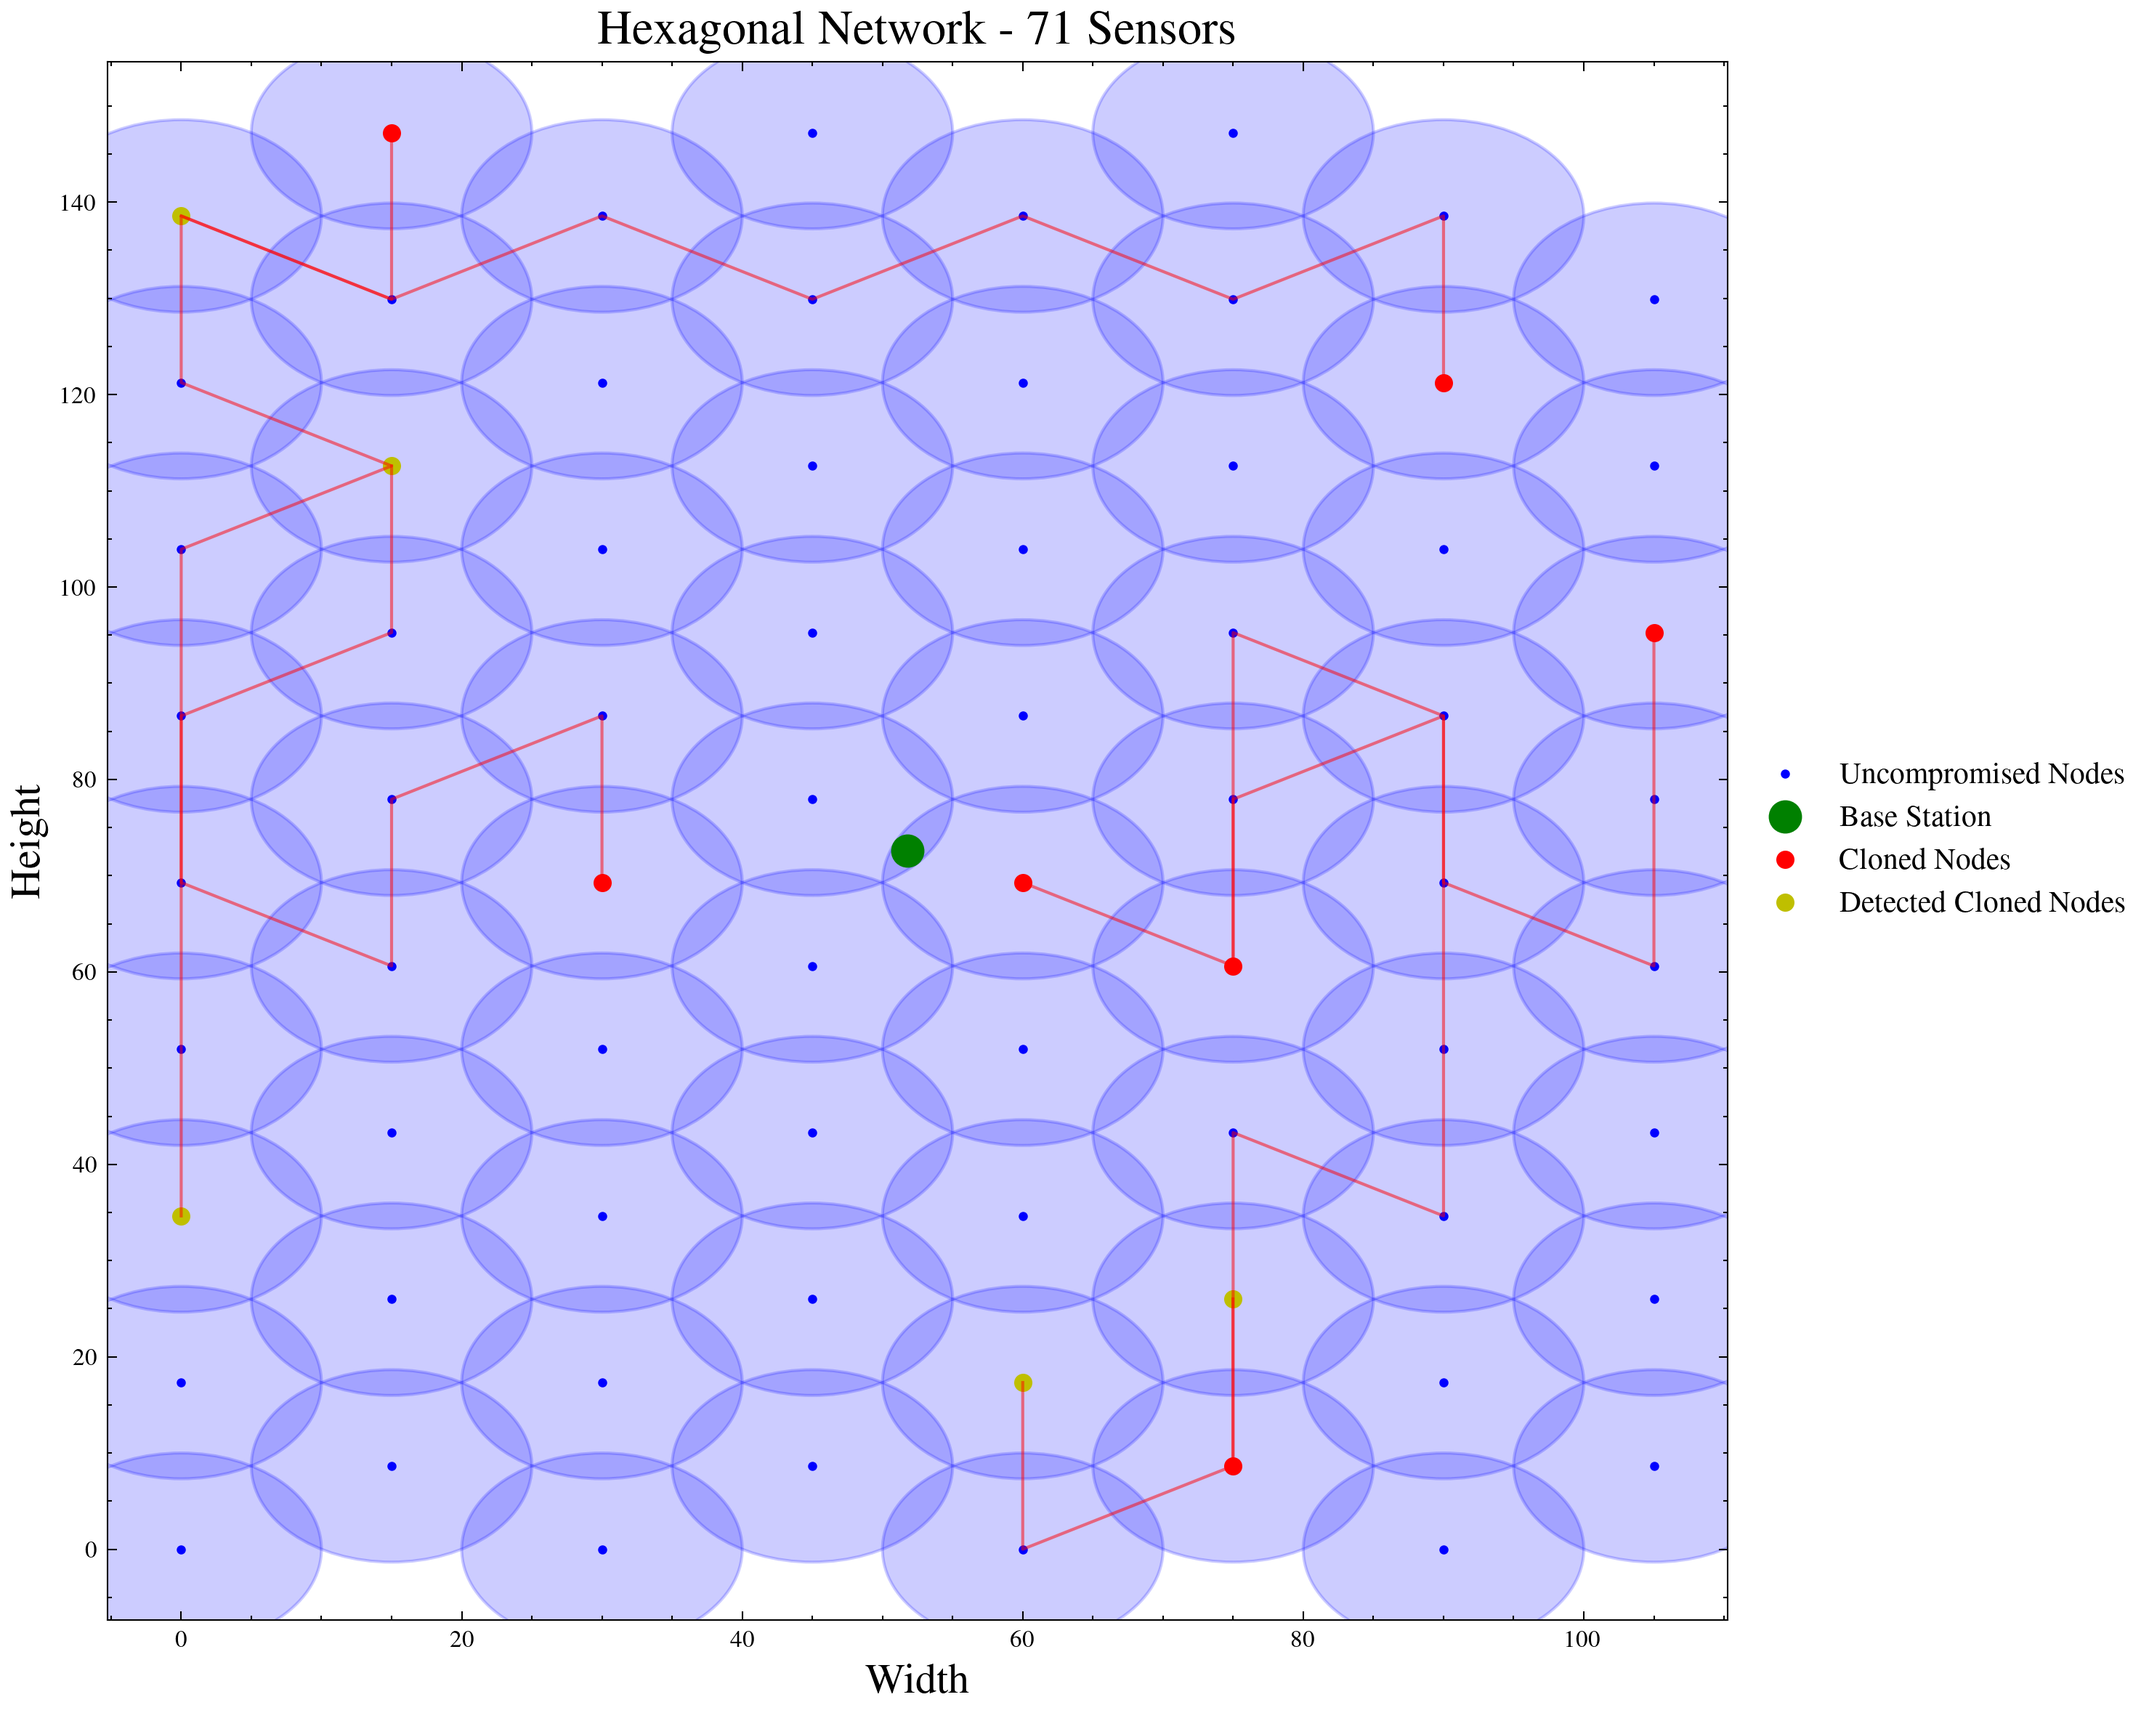
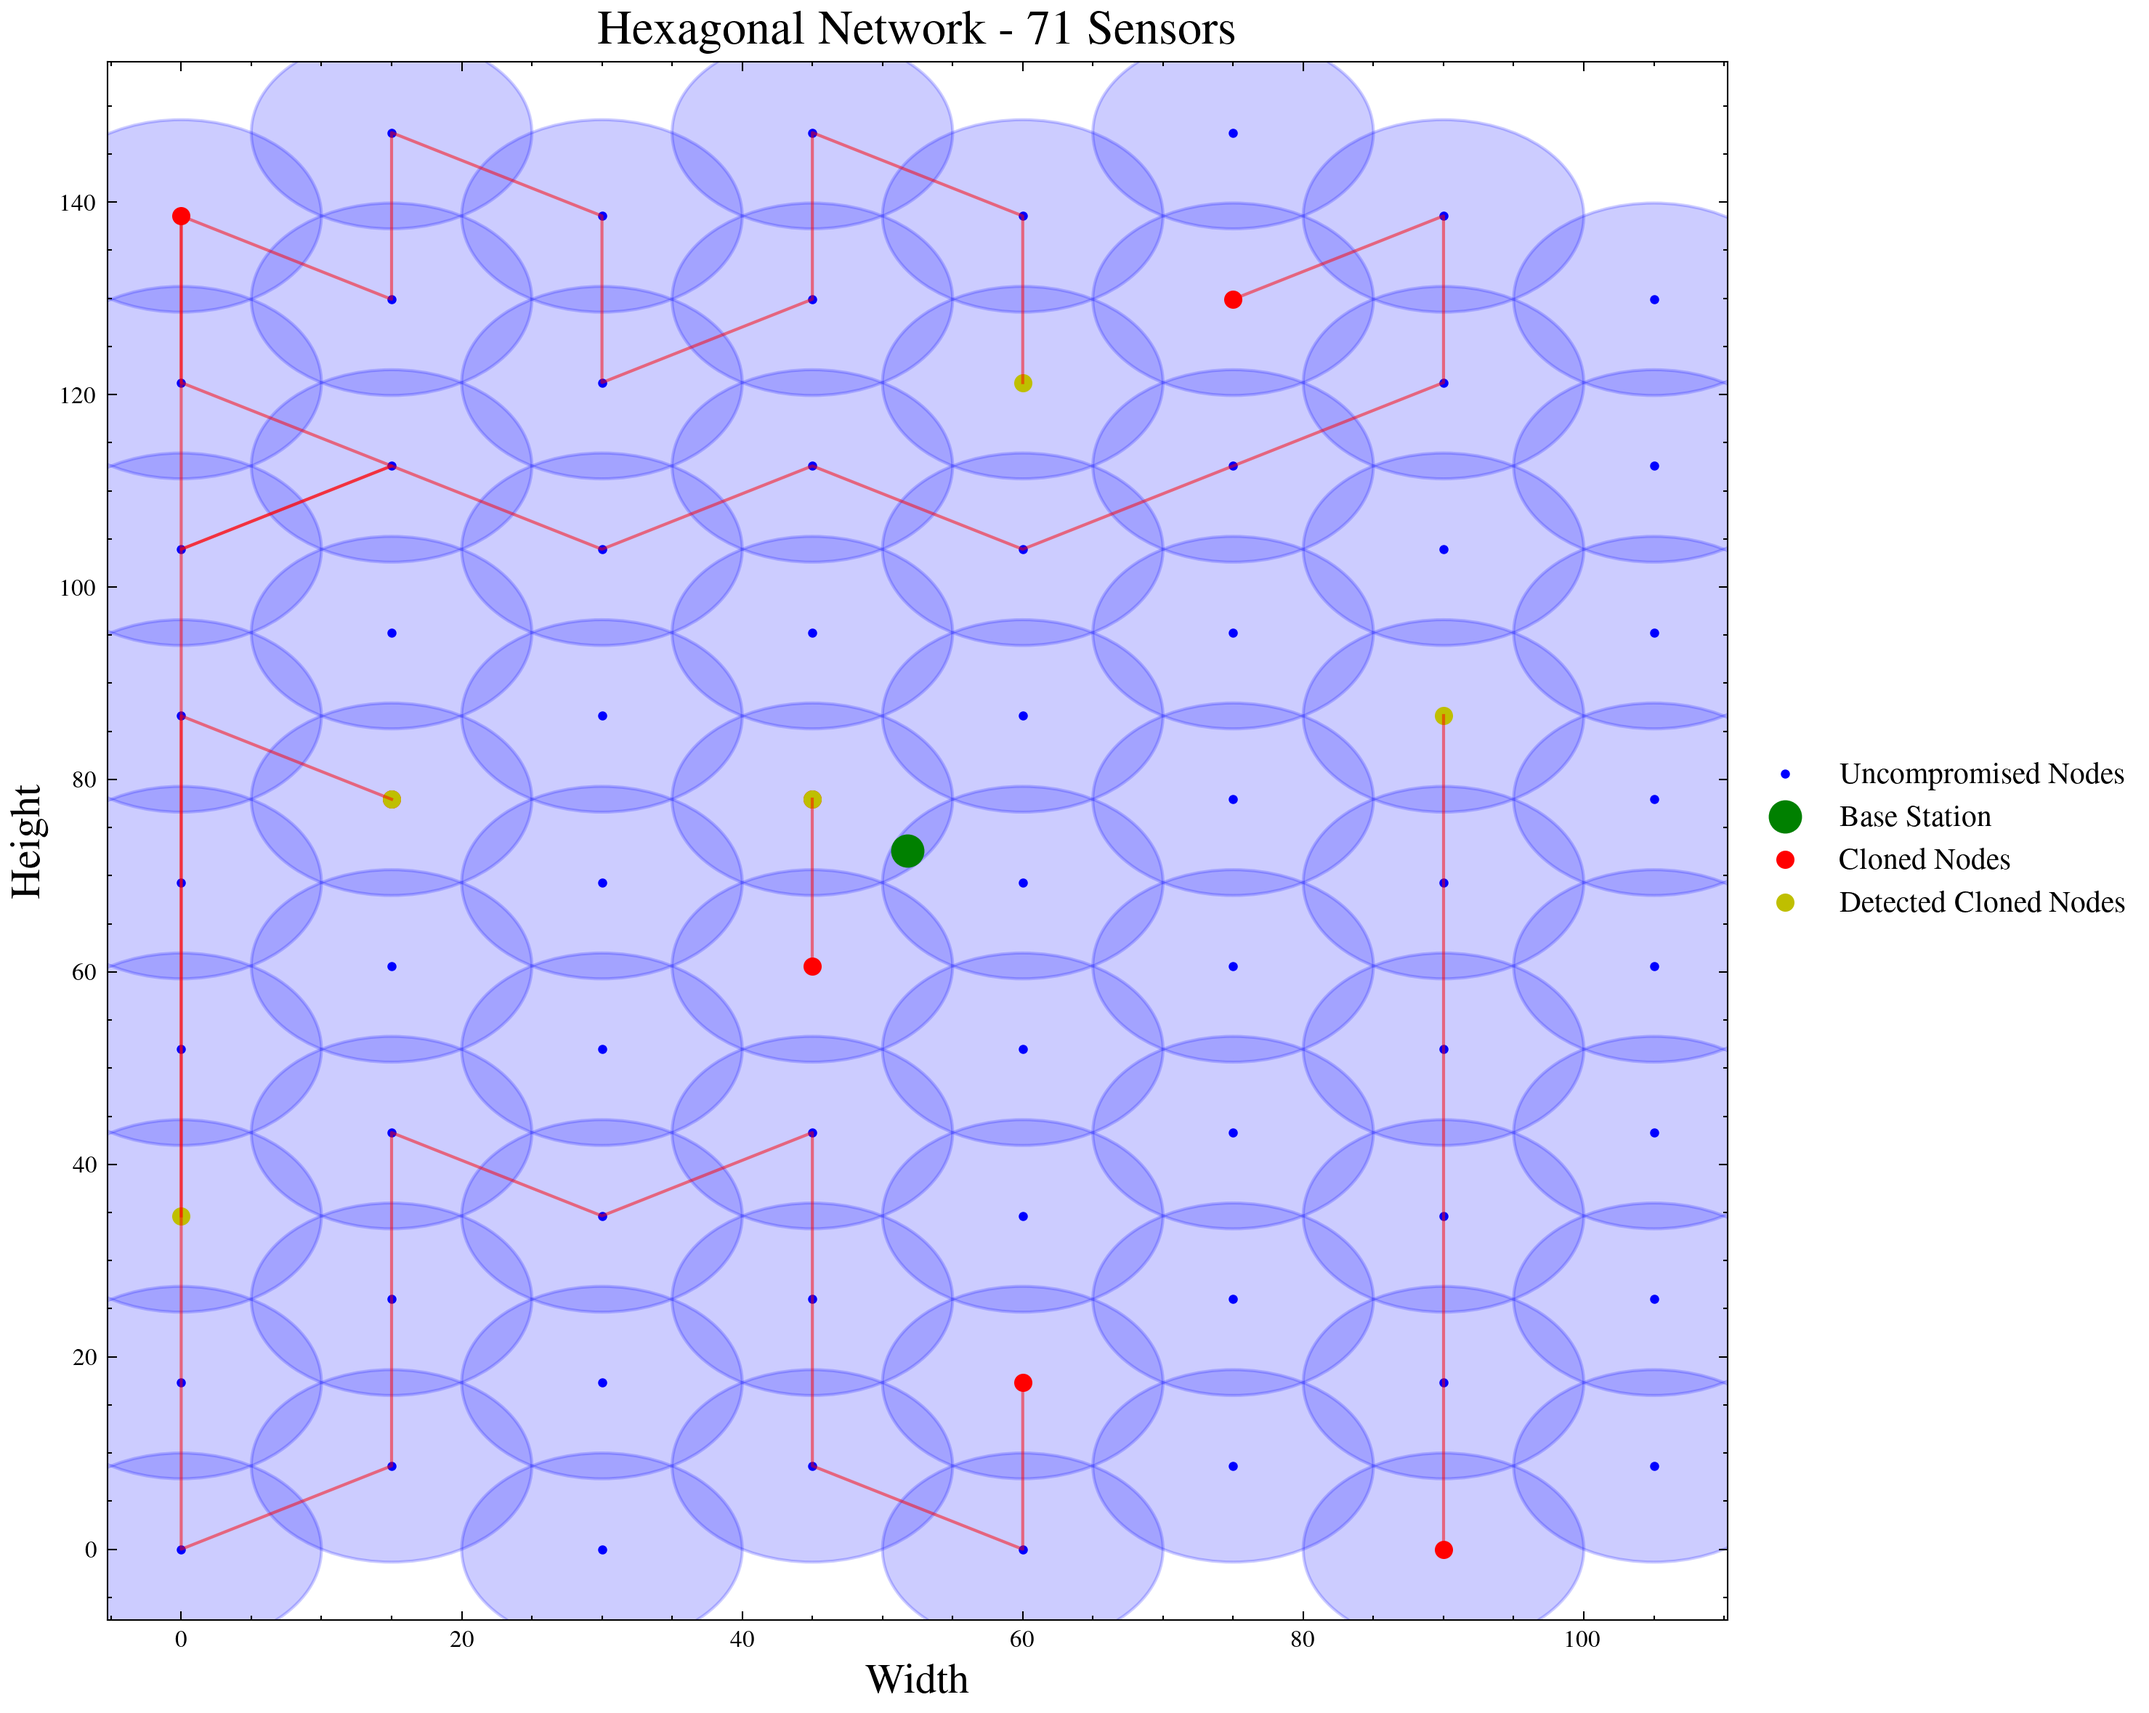
nice

diff --git a/SECURITY/mainfilesecurity.py b/SECURITY/mainfilesecurity.py
@@ -6,7 +6,7 @@ import pandas as pd
 from network_generation import generate_aperiodic_network, generate_hexagonal_network, generate_triangular_network, generate_square_network
 
 plt.style.use(['science', 'ieee', 'high-vis'])
-plt.rcParams.update({'figure.dpi': '600'})
+plt.rcParams.update({'figure.dpi': '300'})
 
 # Parameters
 SENSOR_RADIUS = 10
@@ -113,7 +113,7 @@ def get_unique_angles_distances(current_node, network):
 def detect_pattern(current_node, network):
     unique_angles, unique_distances = get_unique_angles_distances(current_node, network)
     
-    max_angles = 12
+    max_angles = 6
     max_distances = 2
     
     return len(unique_angles) <= max_angles and len(unique_distances) <= max_distances

diff --git a/spectretileinscribed2.0.py b/spectretileinscribed2.0.py
@@ -102,7 +102,7 @@ def plot_spectre_tiles_with_sensors(tiles, sensor_positions, sensor_radius):
     for sensor_pos in sensor_positions:
         circle = Circle(sensor_pos, sensor_radius, color='r', fill=False, linestyle='dotted')
         ax.add_patch(circle)
-        ax.plot(sensor_pos[0], sensor_pos[1], 'ko', markersize=2)
+        ax.plot(sensor_pos[0], sensor_pos[1], 'ko', markersize=1)
 
     if all_points:
         all_points = np.array(all_points)
